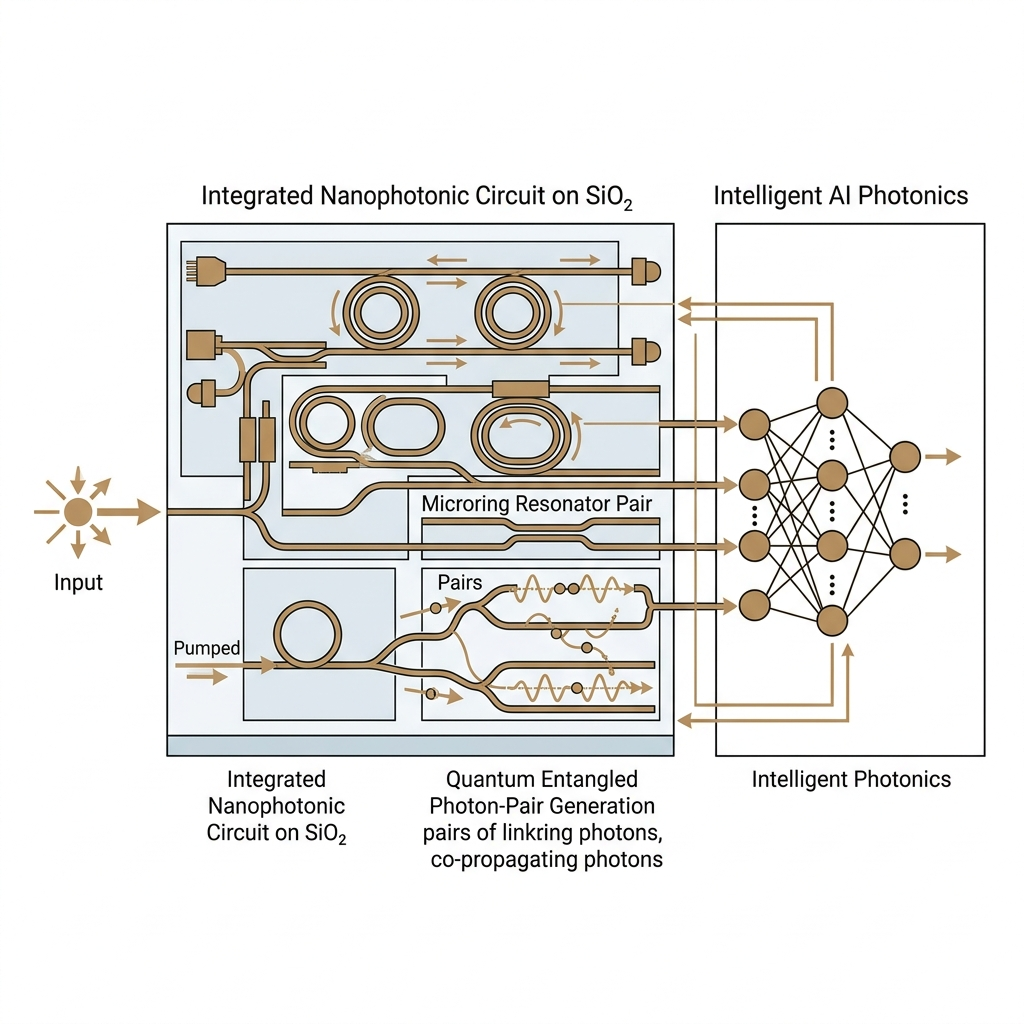
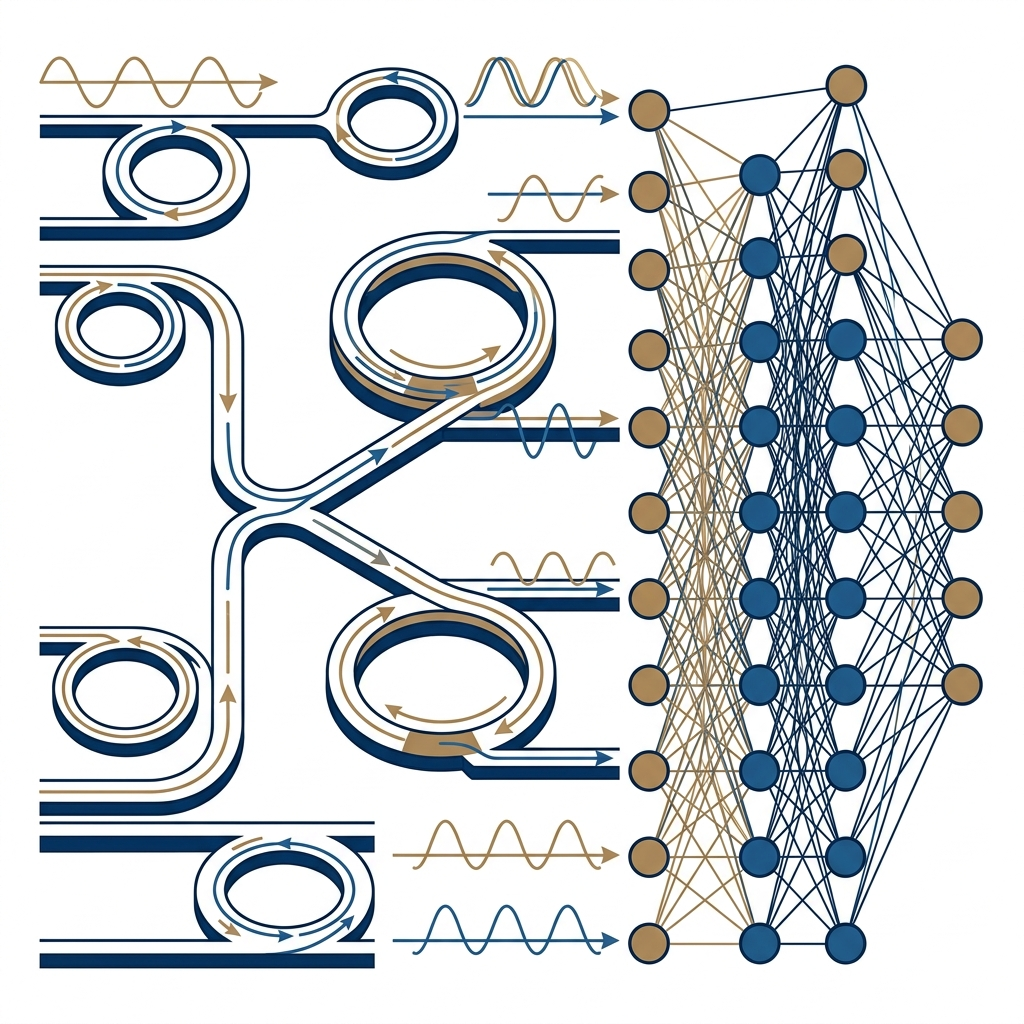
feat: replace homepage TOC schematic with text-free version and resize layout container

diff --git a/app/page.tsx b/app/page.tsx
@@ -143,7 +143,7 @@ export default async function Home() {
               Connecting device physics to computational workflows that remain interpretable and reproducible across three main focus areas.
             </p>
             
-            <div className="overflow-hidden rounded-md border border-border bg-card max-w-2xl">
+            <div className="overflow-hidden rounded-md border border-border bg-card max-w-xl">
               <Image
                 src="/images/homepage-toc.png"
                 alt="Research profile graphical abstract"